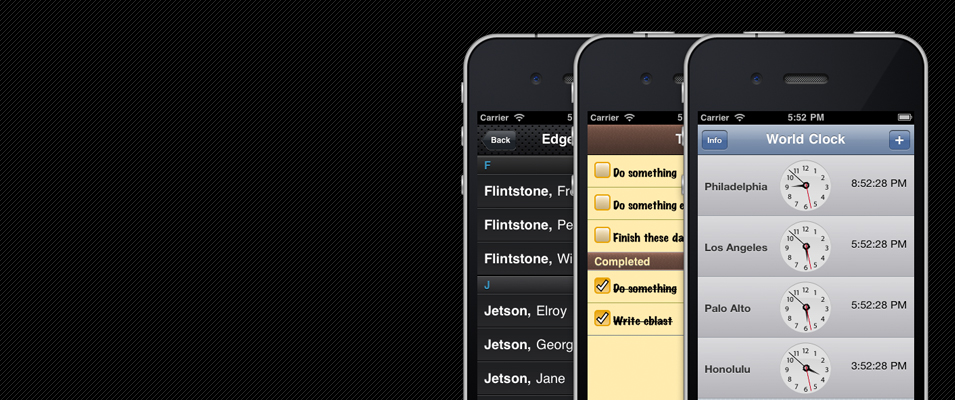
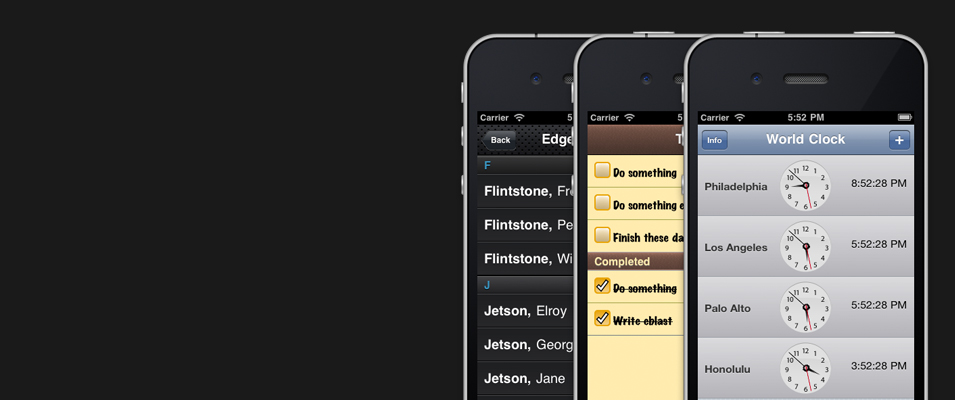
Added a dark ui theme with left/right navigation support.

diff --git a/assets/stylesheets/main.css b/assets/stylesheets/main.css
@@ -1,1 +1,1 @@
-/* normalize.css 2011-11-04T15:38 UTC - http://github.com/necolas/normalize.css */article,aside,details,figcaption,figure,footer,header,hgroup,nav,section{display:block}audio,canvas,video{display:inline-block;*display:inline;*zoom:1}audio:not([controls]){display:none}[hidden]{display:none}html{font-size:100%;overflow-y:scroll;-webkit-text-size-adjust:100%;-ms-text-size-adjust:100%}body{margin:0}body,button,input,select,textarea{font-family:sans-serif}a:focus{outline:thin dotted}a:hover,a:active{outline:0}h1{font-size:2em}abbr[title]{border-bottom:1px dotted}b,strong{font-weight:bold}blockquote{margin:1em 40px}dfn{font-style:italic}mark{background:#ff0;color:#000}pre,code,kbd,samp{font-family:monospace, serif;_font-family:'courier new', monospace;font-size:1em}pre{white-space:pre;white-space:pre-wrap;word-wrap:break-word}q{quotes:none}q:before,q:after{content:'';content:none}small{font-size:75%}sub,sup{font-size:75%;line-height:0;position:relative;vertical-align:baseline}sup{top:-0.5em}sub{bottom:-0.25em}ul,ol{margin-left:0;padding:0 0 0 40px}dd{margin:0 0 0 40px}nav ul,nav ol{list-style:none;list-style-image:none}img{border:0;-ms-interpolation-mode:bicubic}svg:not(:root){overflow:hidden}figure{margin:0}form{margin:0}fieldset{border:1px solid #c0c0c0;margin:0 2px;padding:0.35em 0.625em 0.75em}legend{border:0;*margin-left:-7px}button,input,select,textarea{font-size:100%;margin:0;vertical-align:baseline;*vertical-align:middle}button,input{line-height:normal}button,input[type="button"],input[type="reset"],input[type="submit"]{cursor:pointer;-webkit-appearance:button;*overflow:visible}input[type="checkbox"],input[type="radio"]{box-sizing:border-box;padding:0}input[type="search"]{-webkit-appearance:textfield;-moz-box-sizing:content-box;-webkit-box-sizing:content-box;box-sizing:content-box}input[type="search"]::-webkit-search-decoration{-webkit-appearance:none}button::-moz-focus-inner,input::-moz-focus-inner{border:0;padding:0}textarea{overflow:auto;vertical-align:top}table{border-collapse:collapse;border-spacing:0}body{min-width:960px}.wrapper{margin-left:auto;margin-right:auto;width:960px}.col-1,.col-2,.col-3,.col-4,.col-5,.col-6,.col-7,.col-8,.col-9,.col-10,.col-11,.col-12,.col-13,.col-14,.col-15,.col-16,.col-17,.col-18,.col-19,.col-20,.col-21,.col-22,.col-23,.col-24{display:inline;float:left;position:relative;margin-left:3px;margin-right:2px}.push-1,.pull-1,.push-2,.pull-2,.push-3,.pull-3,.push-4,.pull-4,.push-5,.pull-5,.push-6,.pull-6,.push-7,.pull-7,.push-8,.pull-8,.push-9,.pull-9,.push-10,.pull-10,.push-11,.pull-11,.push-12,.pull-12,.push-13,.pull-13,.push-14,.pull-14,.push-15,.pull-15,.push-16,.pull-16,.push-17,.pull-17,.push-18,.pull-18,.push-19,.pull-19,.push-20,.pull-20,.push-21,.pull-21,.push-22,.pull-22,.push-23,.pull-23,.push-24,.pull-24{position:relative}.alpha{margin-left:0}.omega{margin-right:0}.wrapper .col-1{width:35px}.wrapper .col-2{width:75px}.wrapper .col-3{width:115px}.wrapper .col-4{width:155px}.wrapper .col-5{width:195px}.wrapper .col-6{width:235px}.wrapper .col-7{width:275px}.wrapper .col-8{width:315px}.wrapper .col-9{width:355px}.wrapper .col-10{width:395px}.wrapper .col-11{width:435px}.wrapper .col-12{width:475px}.wrapper .col-13{width:515px}.wrapper .col-14{width:555px}.wrapper .col-15{width:595px}.wrapper .col-16{width:635px}.wrapper .col-17{width:675px}.wrapper .col-18{width:715px}.wrapper .col-19{width:755px}.wrapper .col-20{width:795px}.wrapper .col-21{width:835px}.wrapper .col-22{width:875px}.wrapper .col-23{width:915px}.wrapper .col-24{width:955px}.wrapper .prefix-1{padding-left:40px}.wrapper .prefix-2{padding-left:80px}.wrapper .prefix-3{padding-left:120px}.wrapper .prefix-4{padding-left:160px}.wrapper .prefix-5{padding-left:200px}.wrapper .prefix-6{padding-left:240px}.wrapper .prefix-7{padding-left:280px}.wrapper .prefix-8{padding-left:320px}.wrapper .prefix-9{padding-left:360px}.wrapper .prefix-10{padding-left:400px}.wrapper .prefix-11{padding-left:440px}.wrapper .prefix-12{padding-left:480px}.wrapper .prefix-13{padding-left:520px}.wrapper .prefix-14{padding-left:560px}.wrapper .prefix-15{padding-left:600px}.wrapper .prefix-16{padding-left:640px}.wrapper .prefix-17{padding-left:680px}.wrapper .prefix-18{padding-left:720px}.wrapper .prefix-19{padding-left:760px}.wrapper .prefix-20{padding-left:800px}.wrapper .prefix-21{padding-left:840px}.wrapper .prefix-22{padding-left:880px}.wrapper .prefix-23{padding-left:920px}.wrapper .suffix-1{padding-right:40px}.wrapper .suffix-2{padding-right:80px}.wrapper .suffix-3{padding-right:120px}.wrapper .suffix-4{padding-right:160px}.wrapper .suffix-5{padding-right:200px}.wrapper .suffix-6{padding-right:240px}.wrapper .suffix-7{padding-right:280px}.wrapper .suffix-8{padding-right:320px}.wrapper .suffix-9{padding-right:360px}.wrapper .suffix-10{padding-right:400px}.wrapper .suffix-11{padding-right:440px}.wrapper .suffix-12{padding-right:480px}.wrapper .suffix-13{padding-right:520px}.wrapper .suffix-14{padding-right:560px}.wrapper .suffix-15{padding-right:600px}.wrapper .suffix-16{padding-right:640px}.wrapper .suffix-17{padding-right:680px}.wrapper .suffix-18{padding-right:720px}.wrapper .suffix-19{padding-right:760px}.wrapper .suffix-20{padding-right:800px}.wrapper .suffix-21{padding-right:840px}.wrapper .suffix-22{padding-right:880px}.wrapper .suffix-23{padding-right:920px}.wrapper .push-1{left:40px}.wrapper .push-2{left:80px}.wrapper .push-3{left:120px}.wrapper .push-4{left:160px}.wrapper .push-5{left:200px}.wrapper .push-6{left:240px}.wrapper .push-7{left:280px}.wrapper .push-8{left:320px}.wrapper .push-9{left:360px}.wrapper .push-10{left:400px}.wrapper .push-11{left:440px}.wrapper .push-12{left:480px}.wrapper .push-13{left:520px}.wrapper .push-14{left:560px}.wrapper .push-15{left:600px}.wrapper .push-16{left:640px}.wrapper .push-17{left:680px}.wrapper .push-18{left:720px}.wrapper .push-19{left:760px}.wrapper .push-20{left:800px}.wrapper .push-21{left:840px}.wrapper .push-22{left:880px}.wrapper .push-23{left:920px}.wrapper .pull-1{left:-40px}.wrapper .pull-2{left:-80px}.wrapper .pull-3{left:-120px}.wrapper .pull-4{left:-160px}.wrapper .pull-5{left:-200px}.wrapper .pull-6{left:-240px}.wrapper .pull-7{left:-280px}.wrapper .pull-8{left:-320px}.wrapper .pull-9{left:-360px}.wrapper .pull-10{left:-400px}.wrapper .pull-11{left:-440px}.wrapper .pull-12{left:-480px}.wrapper .pull-13{left:-520px}.wrapper .pull-14{left:-560px}.wrapper .pull-15{left:-600px}.wrapper .pull-16{left:-640px}.wrapper .pull-17{left:-680px}.wrapper .pull-18{left:-720px}.wrapper .pull-19{left:-760px}.wrapper .pull-20{left:-800px}.wrapper .pull-21{left:-840px}.wrapper .pull-22{left:-880px}.wrapper .pull-23{left:-920px}.clear{clear:both;display:block;overflow:hidden;visibility:hidden;width:0;height:0}.clearfix:before,.clearfix:after{content:'\0020';display:block;overflow:hidden;visibility:hidden;width:0;height:0}.clearfix:after{clear:both}.clearfix{zoom:1}html,body{width:100%;height:100%;overflow-x:hidden;overflow-y:auto}body{font-size:0.80em;color:#707070;font-family:"Helvetica Neue", Arial, Helvetica, Geneva, sans-serif;background:#fff url("../images/body-bg.gif") repeat 0 0}a{color:#707070;text-decoration:none}h1,h2,h3,h4{line-height:1.5em;font-weight:normal}h1 span,h2 span,h3 span,h4 span{color:#8bc810}*{outline:0}#select{color:#fff;width:175px;padding:4px 10px;display:inline-block;border:1px solid #8bc810;background:#707070;background:-webkit-gradient(linear, 50% 0%, 50% 100%, color-stop(0%, #8bc810), color-stop(100%, #6a990c));background:-webkit-linear-gradient(#8bc810,#6a990c);background:-moz-linear-gradient(#8bc810,#6a990c);background:-o-linear-gradient(#8bc810,#6a990c);background:-ms-linear-gradient(#8bc810,#6a990c);background:linear-gradient(#8bc810,#6a990c);-moz-border-radius:5px;-webkit-border-radius:5px;-o-border-radius:5px;-ms-border-radius:5px;-khtml-border-radius:5px;border-radius:5px;text-shadow:0 -1px 0 #5a810a}#select.active{border-bottom:none;-moz-border-radius-bottomleft:0;-webkit-border-bottom-left-radius:0;-o-border-bottom-left-radius:0;-ms-border-bottom-left-radius:0;-khtml-border-bottom-left-radius:0;border-bottom-left-radius:0;-moz-border-radius-bottomright:0;-webkit-border-bottom-right-radius:0;-o-border-bottom-right-radius:0;-ms-border-bottom-right-radius:0;-khtml-border-bottom-right-radius:0;border-bottom-right-radius:0}.arrow{width:8px;height:8px;float:right;display:block;margin-top:3px;background:transparent url("../images/menu-arrow.png") no-repeat 0 0}#project-title{float:left}menu{width:195px;margin:0;padding:0;display:none;border:1px solid #8bc810;border-top:1px solid #6a990c;background:#74a70d;-moz-border-radius:5px;-webkit-border-radius:5px;-o-border-radius:5px;-ms-border-radius:5px;-khtml-border-radius:5px;border-radius:5px;-moz-border-radius-topleft:0;-webkit-border-top-left-radius:0;-o-border-top-left-radius:0;-ms-border-top-left-radius:0;-khtml-border-top-left-radius:0;border-top-left-radius:0;-moz-border-radius-topright:0;-webkit-border-top-right-radius:0;-o-border-top-right-radius:0;-ms-border-top-right-radius:0;-khtml-border-top-right-radius:0;border-top-right-radius:0;position:absolute;left:0;top:24px;z-index:9999}menu ul{margin:0;padding:0}menu li{width:195px;list-style-type:none}menu li a{padding:5px 10px;display:block;text-shadow:0 -1px 0 #5a810a;color:#fff}menu li a:hover{background-color:#67940c}menu li:last-child a{-moz-border-radius-bottomleft:5px;-webkit-border-bottom-left-radius:5px;-o-border-bottom-left-radius:5px;-ms-border-bottom-left-radius:5px;-khtml-border-bottom-left-radius:5px;border-bottom-left-radius:5px;-moz-border-radius-bottomright:5px;-webkit-border-bottom-right-radius:5px;-o-border-bottom-right-radius:5px;-ms-border-bottom-right-radius:5px;-khtml-border-bottom-right-radius:5px;border-bottom-right-radius:5px}header.global{height:50px;margin-top:50px;padding-bottom:20px;border-bottom:1px solid #d8d8d8}header.global h1{margin:0;padding:0;float:left}header.global h1 a{width:185px;height:50px;display:block;background:transparent url("../images/header-logo.png") no-repeat 0 0}header.global nav{margin-top:15px;float:right;position:relative}#carousel{width:950px;height:400px;position:relative}#carousel #container{position:absolute}#carousel .feature{width:955px;height:400px;background-color:#000;float:left;background-repeat:none;background-position:0 0}#carousel .feature h1{color:#8bc810;margin:0;padding:0}#carousel .feature .info{background-color:#000;color:#ecece9;margin-top:100px;padding:20px 30px 30px 50px;width:300px}.more{font-size:0.8em;color:#fff;display:inline-block;padding:7px 10px;background:#729600;background:-webkit-gradient(linear, 50% 0%, 50% 100%, color-stop(0%, #8bc810), color-stop(100%, #6a990c));background:-webkit-linear-gradient(#8bc810,#6a990c);background:-moz-linear-gradient(#8bc810,#6a990c);background:-o-linear-gradient(#8bc810,#6a990c);background:-ms-linear-gradient(#8bc810,#6a990c);background:linear-gradient(#8bc810,#6a990c);-moz-border-radius:5px;-webkit-border-radius:5px;-o-border-radius:5px;-ms-border-radius:5px;-khtml-border-radius:5px;border-radius:5px;text-shadow:0 -1px 0 #5a810a;text-transform:uppercase;margin-top:10px}#project-jqtouch{background-image:url("../images/project-jqtouch.jpg")}#project-connect{background-image:url("../images/project-connect.jpg")}#project-infovis{background-image:url("../images/project-infovis.jpg")}#project-philogl{background-image:url("../images/project-philogl.jpg")}#project-raphael{background-image:url("../images/project-raphael.jpg")}footer.global{font-size:0.85em;height:30px;padding-top:10px;margin-top:10px;border-top:1px solid #d8d8d8}
+/* normalize.css 2011-11-04T15:38 UTC - http://github.com/necolas/normalize.css */article,aside,details,figcaption,figure,footer,header,hgroup,nav,section{display:block}audio,canvas,video{display:inline-block;*display:inline;*zoom:1}audio:not([controls]){display:none}[hidden]{display:none}html{font-size:100%;overflow-y:scroll;-webkit-text-size-adjust:100%;-ms-text-size-adjust:100%}body{margin:0}body,button,input,select,textarea{font-family:sans-serif}a:focus{outline:thin dotted}a:hover,a:active{outline:0}h1{font-size:2em}abbr[title]{border-bottom:1px dotted}b,strong{font-weight:bold}blockquote{margin:1em 40px}dfn{font-style:italic}mark{background:#ff0;color:#000}pre,code,kbd,samp{font-family:monospace, serif;_font-family:'courier new', monospace;font-size:1em}pre{white-space:pre;white-space:pre-wrap;word-wrap:break-word}q{quotes:none}q:before,q:after{content:'';content:none}small{font-size:75%}sub,sup{font-size:75%;line-height:0;position:relative;vertical-align:baseline}sup{top:-0.5em}sub{bottom:-0.25em}ul,ol{margin-left:0;padding:0 0 0 40px}dd{margin:0 0 0 40px}nav ul,nav ol{list-style:none;list-style-image:none}img{border:0;-ms-interpolation-mode:bicubic}svg:not(:root){overflow:hidden}figure{margin:0}form{margin:0}fieldset{border:1px solid #c0c0c0;margin:0 2px;padding:0.35em 0.625em 0.75em}legend{border:0;*margin-left:-7px}button,input,select,textarea{font-size:100%;margin:0;vertical-align:baseline;*vertical-align:middle}button,input{line-height:normal}button,input[type="button"],input[type="reset"],input[type="submit"]{cursor:pointer;-webkit-appearance:button;*overflow:visible}input[type="checkbox"],input[type="radio"]{box-sizing:border-box;padding:0}input[type="search"]{-webkit-appearance:textfield;-moz-box-sizing:content-box;-webkit-box-sizing:content-box;box-sizing:content-box}input[type="search"]::-webkit-search-decoration{-webkit-appearance:none}button::-moz-focus-inner,input::-moz-focus-inner{border:0;padding:0}textarea{overflow:auto;vertical-align:top}table{border-collapse:collapse;border-spacing:0}body{min-width:960px}.wrapper{margin-left:auto;margin-right:auto;width:960px}.col-1,.col-2,.col-3,.col-4,.col-5,.col-6,.col-7,.col-8,.col-9,.col-10,.col-11,.col-12,.col-13,.col-14,.col-15,.col-16,.col-17,.col-18,.col-19,.col-20,.col-21,.col-22,.col-23,.col-24{display:inline;float:left;position:relative;margin-left:3px;margin-right:2px}.push-1,.pull-1,.push-2,.pull-2,.push-3,.pull-3,.push-4,.pull-4,.push-5,.pull-5,.push-6,.pull-6,.push-7,.pull-7,.push-8,.pull-8,.push-9,.pull-9,.push-10,.pull-10,.push-11,.pull-11,.push-12,.pull-12,.push-13,.pull-13,.push-14,.pull-14,.push-15,.pull-15,.push-16,.pull-16,.push-17,.pull-17,.push-18,.pull-18,.push-19,.pull-19,.push-20,.pull-20,.push-21,.pull-21,.push-22,.pull-22,.push-23,.pull-23,.push-24,.pull-24{position:relative}.alpha{margin-left:0}.omega{margin-right:0}.wrapper .col-1{width:35px}.wrapper .col-2{width:75px}.wrapper .col-3{width:115px}.wrapper .col-4{width:155px}.wrapper .col-5{width:195px}.wrapper .col-6{width:235px}.wrapper .col-7{width:275px}.wrapper .col-8{width:315px}.wrapper .col-9{width:355px}.wrapper .col-10{width:395px}.wrapper .col-11{width:435px}.wrapper .col-12{width:475px}.wrapper .col-13{width:515px}.wrapper .col-14{width:555px}.wrapper .col-15{width:595px}.wrapper .col-16{width:635px}.wrapper .col-17{width:675px}.wrapper .col-18{width:715px}.wrapper .col-19{width:755px}.wrapper .col-20{width:795px}.wrapper .col-21{width:835px}.wrapper .col-22{width:875px}.wrapper .col-23{width:915px}.wrapper .col-24{width:955px}.wrapper .prefix-1{padding-left:40px}.wrapper .prefix-2{padding-left:80px}.wrapper .prefix-3{padding-left:120px}.wrapper .prefix-4{padding-left:160px}.wrapper .prefix-5{padding-left:200px}.wrapper .prefix-6{padding-left:240px}.wrapper .prefix-7{padding-left:280px}.wrapper .prefix-8{padding-left:320px}.wrapper .prefix-9{padding-left:360px}.wrapper .prefix-10{padding-left:400px}.wrapper .prefix-11{padding-left:440px}.wrapper .prefix-12{padding-left:480px}.wrapper .prefix-13{padding-left:520px}.wrapper .prefix-14{padding-left:560px}.wrapper .prefix-15{padding-left:600px}.wrapper .prefix-16{padding-left:640px}.wrapper .prefix-17{padding-left:680px}.wrapper .prefix-18{padding-left:720px}.wrapper .prefix-19{padding-left:760px}.wrapper .prefix-20{padding-left:800px}.wrapper .prefix-21{padding-left:840px}.wrapper .prefix-22{padding-left:880px}.wrapper .prefix-23{padding-left:920px}.wrapper .suffix-1{padding-right:40px}.wrapper .suffix-2{padding-right:80px}.wrapper .suffix-3{padding-right:120px}.wrapper .suffix-4{padding-right:160px}.wrapper .suffix-5{padding-right:200px}.wrapper .suffix-6{padding-right:240px}.wrapper .suffix-7{padding-right:280px}.wrapper .suffix-8{padding-right:320px}.wrapper .suffix-9{padding-right:360px}.wrapper .suffix-10{padding-right:400px}.wrapper .suffix-11{padding-right:440px}.wrapper .suffix-12{padding-right:480px}.wrapper .suffix-13{padding-right:520px}.wrapper .suffix-14{padding-right:560px}.wrapper .suffix-15{padding-right:600px}.wrapper .suffix-16{padding-right:640px}.wrapper .suffix-17{padding-right:680px}.wrapper .suffix-18{padding-right:720px}.wrapper .suffix-19{padding-right:760px}.wrapper .suffix-20{padding-right:800px}.wrapper .suffix-21{padding-right:840px}.wrapper .suffix-22{padding-right:880px}.wrapper .suffix-23{padding-right:920px}.wrapper .push-1{left:40px}.wrapper .push-2{left:80px}.wrapper .push-3{left:120px}.wrapper .push-4{left:160px}.wrapper .push-5{left:200px}.wrapper .push-6{left:240px}.wrapper .push-7{left:280px}.wrapper .push-8{left:320px}.wrapper .push-9{left:360px}.wrapper .push-10{left:400px}.wrapper .push-11{left:440px}.wrapper .push-12{left:480px}.wrapper .push-13{left:520px}.wrapper .push-14{left:560px}.wrapper .push-15{left:600px}.wrapper .push-16{left:640px}.wrapper .push-17{left:680px}.wrapper .push-18{left:720px}.wrapper .push-19{left:760px}.wrapper .push-20{left:800px}.wrapper .push-21{left:840px}.wrapper .push-22{left:880px}.wrapper .push-23{left:920px}.wrapper .pull-1{left:-40px}.wrapper .pull-2{left:-80px}.wrapper .pull-3{left:-120px}.wrapper .pull-4{left:-160px}.wrapper .pull-5{left:-200px}.wrapper .pull-6{left:-240px}.wrapper .pull-7{left:-280px}.wrapper .pull-8{left:-320px}.wrapper .pull-9{left:-360px}.wrapper .pull-10{left:-400px}.wrapper .pull-11{left:-440px}.wrapper .pull-12{left:-480px}.wrapper .pull-13{left:-520px}.wrapper .pull-14{left:-560px}.wrapper .pull-15{left:-600px}.wrapper .pull-16{left:-640px}.wrapper .pull-17{left:-680px}.wrapper .pull-18{left:-720px}.wrapper .pull-19{left:-760px}.wrapper .pull-20{left:-800px}.wrapper .pull-21{left:-840px}.wrapper .pull-22{left:-880px}.wrapper .pull-23{left:-920px}.clear{clear:both;display:block;overflow:hidden;visibility:hidden;width:0;height:0}.clearfix:before,.clearfix:after{content:'\0020';display:block;overflow:hidden;visibility:hidden;width:0;height:0}.clearfix:after{clear:both}.clearfix{zoom:1}html,body{width:100%;height:100%;overflow-x:hidden;overflow-y:auto}body{font-size:0.80em;color:#d8d8d8;font-family:"Helvetica Neue", Arial, Helvetica, Geneva, sans-serif;background:#fff url("../images/body-bg.jpg") repeat 0 0}a{color:#707070;text-decoration:none}h1,h2,h3,h4{line-height:1.5em;font-weight:normal}h1 span,h2 span,h3 span,h4 span{color:#8bc810}*{outline:0}#select{color:#ababab;width:175px;padding:4px 10px;display:inline-block;border:1px solid #1a1a1a;background:#242426;background:-webkit-gradient(linear, 50% 0%, 50% 100%, color-stop(0%, #4a4c50), color-stop(100%, #242426));background:-webkit-linear-gradient(#4a4c50,#242426);background:-moz-linear-gradient(#4a4c50,#242426);background:-o-linear-gradient(#4a4c50,#242426);background:-ms-linear-gradient(#4a4c50,#242426);background:linear-gradient(#4a4c50,#242426);-moz-border-radius:5px;-webkit-border-radius:5px;-o-border-radius:5px;-ms-border-radius:5px;-khtml-border-radius:5px;border-radius:5px;text-shadow:0 1px 0 #1a1a1a}#select.active{border-bottom:none;-moz-border-radius-bottomleft:0;-webkit-border-bottom-left-radius:0;-o-border-bottom-left-radius:0;-ms-border-bottom-left-radius:0;-khtml-border-bottom-left-radius:0;border-bottom-left-radius:0;-moz-border-radius-bottomright:0;-webkit-border-bottom-right-radius:0;-o-border-bottom-right-radius:0;-ms-border-bottom-right-radius:0;-khtml-border-bottom-right-radius:0;border-bottom-right-radius:0}.tri{width:8px;height:8px;float:right;display:block;margin-top:3px;background:transparent url("../images/menu-arrow.png") no-repeat 0 0}#project-title{float:left}menu{width:195px;margin:0;padding:0;display:none;border:1px solid #1a1a1a;background:#242426;background:-webkit-gradient(linear, 50% 0%, 50% 100%, color-stop(0%, #4a4c50), color-stop(100%, #242426));background:-webkit-linear-gradient(#4a4c50,#242426);background:-moz-linear-gradient(#4a4c50,#242426);background:-o-linear-gradient(#4a4c50,#242426);background:-ms-linear-gradient(#4a4c50,#242426);background:linear-gradient(#4a4c50,#242426);-moz-border-radius:5px;-webkit-border-radius:5px;-o-border-radius:5px;-ms-border-radius:5px;-khtml-border-radius:5px;border-radius:5px;-moz-border-radius-topleft:0;-webkit-border-top-left-radius:0;-o-border-top-left-radius:0;-ms-border-top-left-radius:0;-khtml-border-top-left-radius:0;border-top-left-radius:0;-moz-border-radius-topright:0;-webkit-border-top-right-radius:0;-o-border-top-right-radius:0;-ms-border-top-right-radius:0;-khtml-border-top-right-radius:0;border-top-right-radius:0;position:absolute;left:0;top:24px;z-index:9999}menu ul{margin:0;padding:0}menu li{width:195px;list-style-type:none}menu li a{padding:5px 10px;display:block;text-shadow:0 1px 0 #1a1a1a;color:#ababab}menu li a:hover{color:#fff;background-color:#67940c}menu li:last-child a{-moz-border-radius-bottomleft:5px;-webkit-border-bottom-left-radius:5px;-o-border-bottom-left-radius:5px;-ms-border-bottom-left-radius:5px;-khtml-border-bottom-left-radius:5px;border-bottom-left-radius:5px;-moz-border-radius-bottomright:5px;-webkit-border-bottom-right-radius:5px;-o-border-bottom-right-radius:5px;-ms-border-bottom-right-radius:5px;-khtml-border-bottom-right-radius:5px;border-bottom-right-radius:5px}header.global{height:50px;margin-top:50px;padding-bottom:20px;border-bottom:1px solid #3c3c3f}header.global h1{margin:0;padding:0;float:left}header.global h1 a{width:185px;height:50px;display:block;background:transparent url("../images/header-logo.png") no-repeat 0 0}header.global nav{margin-top:15px;float:right;position:relative}#carousel{width:950px;height:400px;position:relative}#carousel #container{position:absolute}#carousel .feature{width:955px;height:400px;background-color:#000;float:left;background-repeat:none;background-position:0 0}#carousel .feature h1{color:#8bc810;margin:0;padding:0}#carousel .feature .info{color:#ecece9;margin-top:100px;padding:20px 30px 30px 50px;width:300px}.more{font-size:0.8em;color:#fff;display:inline-block;padding:7px 10px;background:#729600;background:-webkit-gradient(linear, 50% 0%, 50% 100%, color-stop(0%, #8bc810), color-stop(100%, #6a990c));background:-webkit-linear-gradient(#8bc810,#6a990c);background:-moz-linear-gradient(#8bc810,#6a990c);background:-o-linear-gradient(#8bc810,#6a990c);background:-ms-linear-gradient(#8bc810,#6a990c);background:linear-gradient(#8bc810,#6a990c);-moz-border-radius:5px;-webkit-border-radius:5px;-o-border-radius:5px;-ms-border-radius:5px;-khtml-border-radius:5px;border-radius:5px;text-shadow:0 -1px 0 #5a810a;text-transform:uppercase;margin-top:10px}.arrow{width:25px;height:42px;display:block;position:absolute;top:400px;background-repeat:no-repeat;background-position:0 0;z-index:1000}#arrow-left{background-image:url("../images/project-arrow-left.png");left:20px}#arrow-right{background-image:url("../images/project-arrow-right.png");right:20px}#project-jqtouch{background-image:url("../images/project-jqtouch.jpg")}#project-connect{background-image:url("../images/project-connect.jpg")}#project-infovis{background-image:url("../images/project-infovis.jpg")}#project-philogl{background-image:url("../images/project-philogl.jpg")}#project-raphael{background-image:url("../images/project-raphael.jpg")}footer.global{font-size:0.85em;height:30px;padding-top:10px;margin-top:10px;border-top:1px solid #3c3c3f}

diff --git a/assets/scss/main.scss b/assets/scss/main.scss
@@ -26,9 +26,9 @@ html, body {
 }
 body {
 	font-size: 0.80em;
-	color: #707070;
+	color: $gray;
 	font-family: "Helvetica Neue", Arial, Helvetica, Geneva, sans-serif;
-	background: #fff url("../images/body-bg.gif") repeat 0 0;
+	background: #fff url("../images/body-bg.jpg") repeat 0 0;
 }
 a {
 	color: #707070;
@@ -49,15 +49,15 @@ h1 span, h2 span, h3 span, h4 span {
  * Menu
  ****************************************************/
 #select {
-	color: #fff;
+	color: #ababab;
 	width: 175px;
 	padding: 4px 10px;
 	display: inline-block;
-	border: 1px solid $green;
-	background: $dark-gray;
-	@include background(linear-gradient($green, darken($green, 10)));
+	border: 1px solid $black;
+	background: #242426;
+	@include background(linear-gradient(#4a4c50, #242426));
 	@include border-radius;
-	text-shadow: 0 -1px 0 darken($green, 15);
+	text-shadow: 0 1px 0 $black;
 
 	&:hover {
 
@@ -69,7 +69,7 @@ h1 span, h2 span, h3 span, h4 span {
 	}
 }
 
-.arrow {
+.tri {
 	width: 8px;
 	height: 8px;
 	float: right;
@@ -87,10 +87,9 @@ menu {
 	margin: 0;
 	padding: 0;
 	display: none;
-	border: 1px solid $green;
-	border-top:1px solid darken($green, 10);
-	background: darken($green, 7);
-	//@include background(linear-gradient($green, darken($green, 10)));
+	border: 1px solid $black;
+	background: #242426;
+	@include background(linear-gradient(#4a4c50, #242426));
 	@include border-radius;
 	@include border-top-radius(0);
 	position: absolute;
@@ -110,10 +109,11 @@ menu {
 		a {
 			padding: 5px 10px;
 			display: block;
-			text-shadow: 0 -1px 0 darken($green, 15);
-			color: #fff;
+			text-shadow: 0 1px 0 $black;
+			color: #ababab;
 
 			&:hover {
+				color: #fff;
 				background-color: darken($green, 11);
 			}
 		}
@@ -131,7 +131,7 @@ header.global {
 	height: 50px;
 	margin-top: 50px;
 	padding-bottom: 20px;	
-	border-bottom: 1px solid $gray;
+	border-bottom: 1px solid #3c3c3f;
 
 	h1 {
 		margin: 0;
@@ -180,7 +180,7 @@ header.global {
 		}
 
 		.info {
-			background-color: #000;
+			// background-color: #000;
 			color: $light-gray;
 			margin-top: 100px;
 			padding: 20px 30px 30px 50px;
@@ -199,6 +199,24 @@ header.global {
 	text-shadow: 0 -1px 0 darken($green, 15);
 	text-transform: uppercase;
 	margin-top: 10px;
+}
+.arrow {
+	width: 25px;
+	height: 42px;
+	display: block;
+	position: absolute;
+	top: 400px;
+	background-repeat: no-repeat;
+	background-position: 0 0;
+	z-index: 1000;
+}
+#arrow-left {
+	background-image: url('../images/project-arrow-left.png');
+	left: 20px;
+}
+#arrow-right {
+	background-image: url('../images/project-arrow-right.png');
+	right: 20px;
 }
 #project-jqtouch {
 	background-image: url('../images/project-jqtouch.jpg');
@@ -224,5 +242,5 @@ footer.global {
 	height: 30px;
 	padding-top: 10px;
 	margin-top: 10px;	
-	border-top: 1px solid $gray;
+	border-top: 1px solid #3c3c3f;
 }

diff --git a/assets/javascripts/main.js b/assets/javascripts/main.js
@@ -64,7 +64,7 @@ Ext.ux.Carousel = Ext.extend(Ext.util.Observable, {
     slideEasing: 'easeOut',
     slideDuration: 0.5,
     slideMargin: 10,
-    slideOpacity: 0.2,
+    slideOpacity: 0.35,
     /**
      * Constructor
      * @param String id
@@ -150,7 +150,6 @@ Ext.ux.Carousel = Ext.extend(Ext.util.Observable, {
      */
     setOpacity: function() {
         this.slides.each(function(el, t, i) {
-            console.log(i +' '+ this.activeIndex);
             if(i != this.activeIndex) {
                 el.animate({
                     opacity: { to: this.slideOpacity }
@@ -173,4 +172,12 @@ Ext.onReady(function() {
         carousel.goTo(t.getAttribute('data-project'));
         select.close();
     });
+	Ext.EventManager.addListener(window, 'keydown', function(e,t) {
+		if(e.keyCode == 37) {
+			carousel.prev();
+		}
+		if(e.keyCode == 39) {
+			carousel.next();
+		}
+	});
 });

diff --git a/index.html b/index.html
@@ -17,7 +17,7 @@
 			<h1><a href="/" title="Sencha:Labs"></a></h1>
 			<nav>
 				<a href="Javascript:void(0);" id="select" data-menu="projects">
-					<span id="project-title">Projects</span><span class="arrow"></span>
+					<span id="project-title">Projects</span><span class="tri"></span>
 				</a>
 				<menu id="projects">
 					<li><a href="Javascript:void(0);" data-project="0">jQTouch</a></li>
